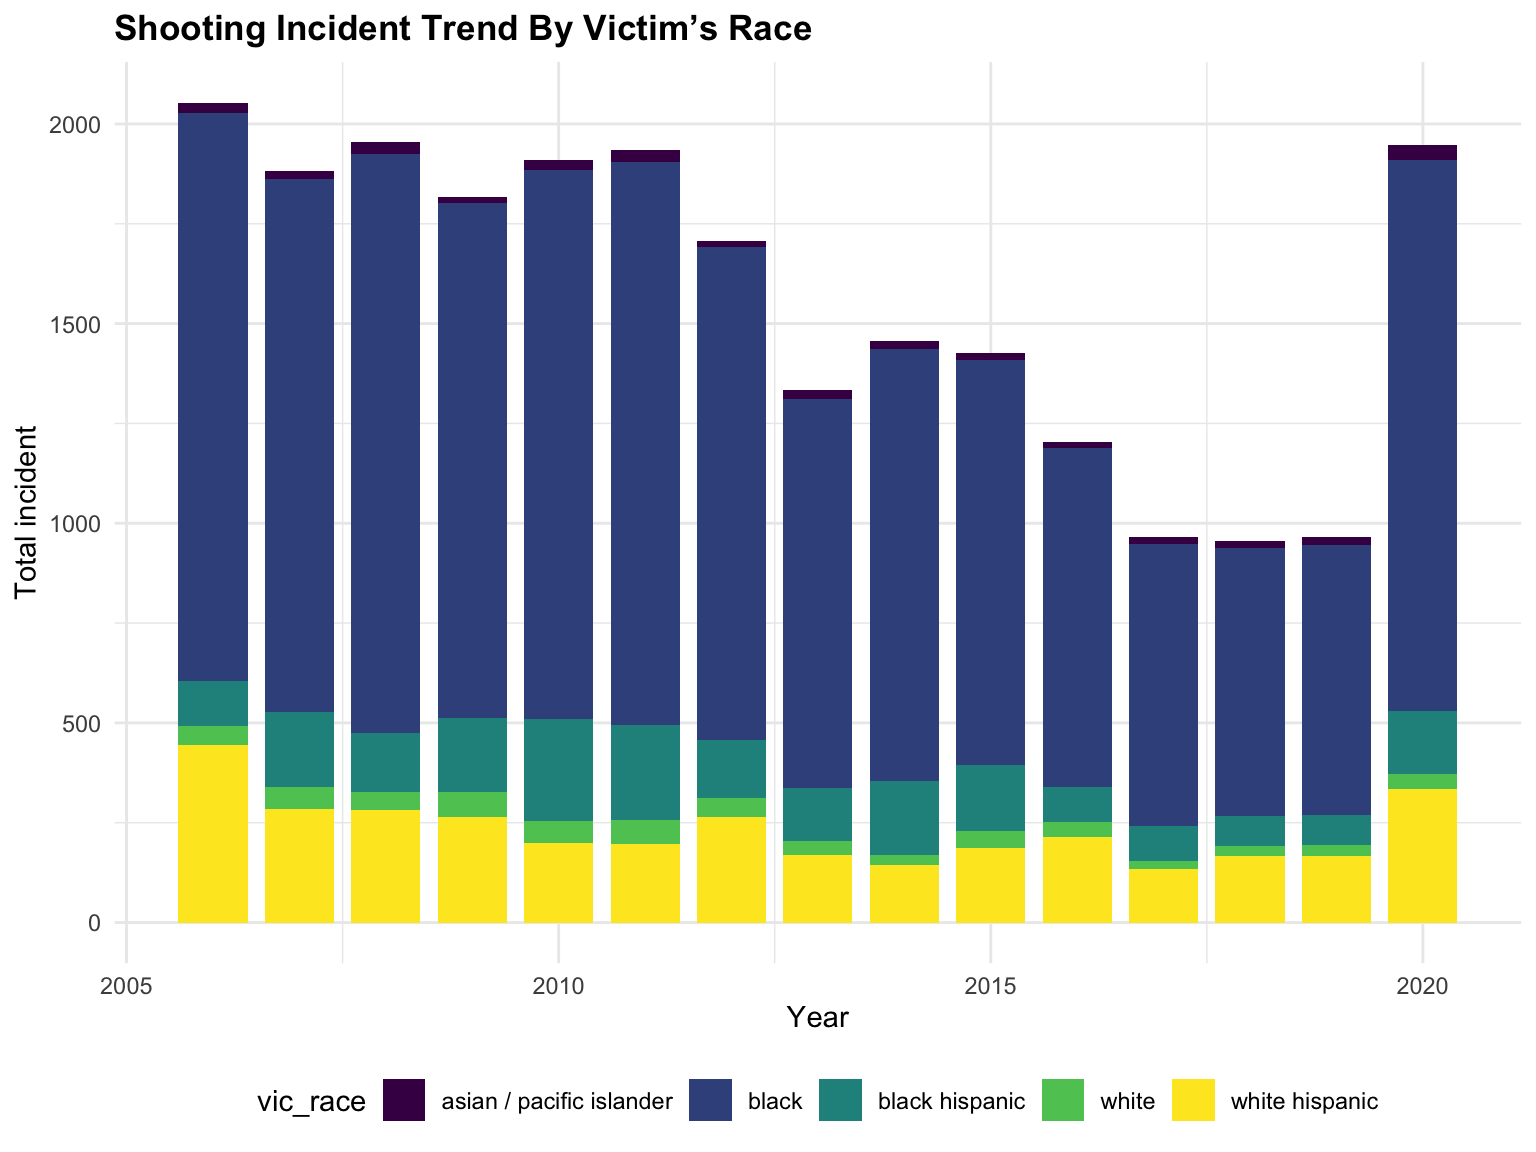
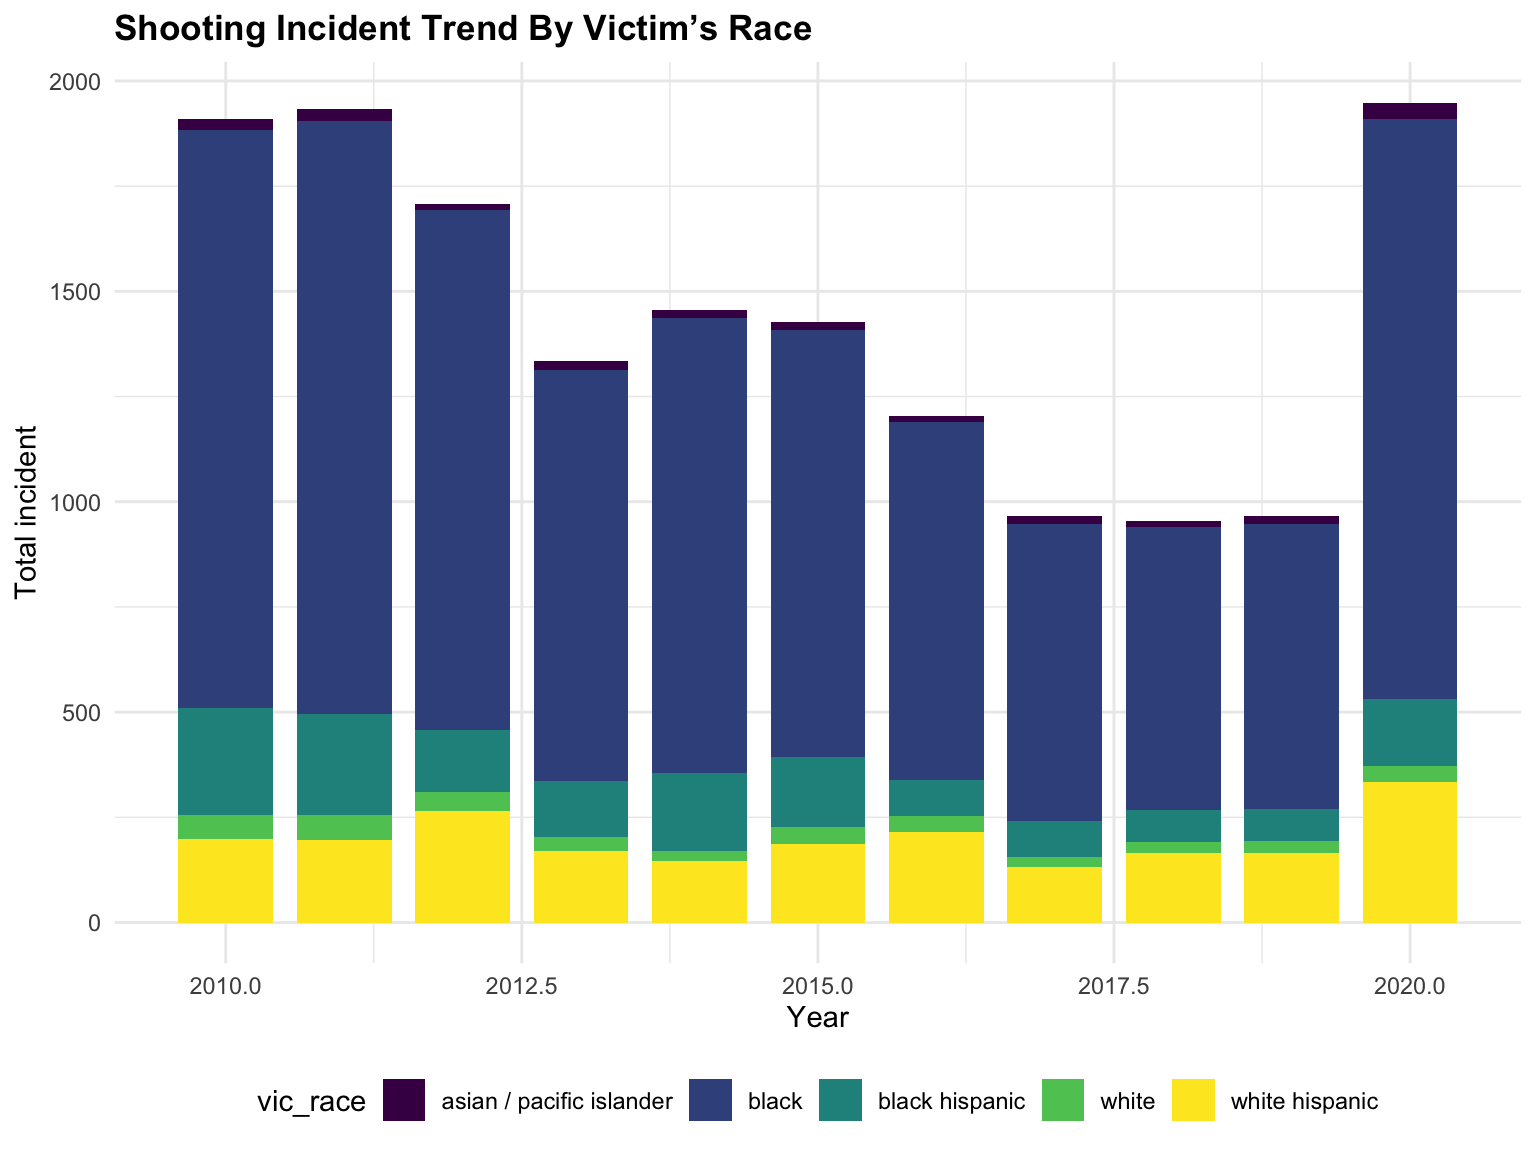
2010-2020

diff --git a/analysis.html b/analysis.html
@@ -368,8 +368,9 @@ div.tocify {
 
 <div id="overall-glance" class="section level1">
 <h1>Overall glance</h1>
-<p>At the very beginning, let’s have a overall glance at the shooting incidence and focusing on the most serious issue, which is the amount of death on shooting incident from <strong>2006 to 2020</strong> in New York City. ## Total shooting incident trends by murdered or survived <img src="analysis_files/figure-html/unnamed-chunk-4-1.png" width="90%" /></p>
-<p>Murdered shooting incidence is much less than survived shooting incidence. From 2006 to 2011, the survived shooting incidence was steadily fluctuate around 1500 and murdered shooting incidence was steadily fluctuate around 400. Both types of the shooting incidence were decreasing gradually from 2011 to 2019. However, there is a huge dramatically increase in 2020 for both types of the shooting incidence.</p>
+<p>At the very beginning, let’s have a overall glance at the shooting incidence and focusing on the most serious issue, which is the amount of death on shooting incident from <strong>2010 to 2020</strong> in New York City.</p>
+<p><img src="analysis_files/figure-html/unnamed-chunk-4-1.png" width="90%" /></p>
+<p>Murdered shooting incidence is much less than survived shooting incidence.Both types of the shooting incidence were decreasing gradually from 2010 to 2019. However, there is a huge dramatically increase in 2020. We suspect it may be due to the outbreak of COVID-19 which led to a raise in unemployment and panic.</p>
 <p>Now, let’s take a closer look on more details about the victims.</p>
 </div>
 <div id="victim" class="section level1">
@@ -382,24 +383,45 @@ div.tocify {
 <div id="sex" class="section level2">
 <h2>Sex</h2>
 <p><img src="analysis_files/figure-html/unnamed-chunk-6-1.png" width="90%" /></p>
-<p>Male victims are the majority and female victims have a very small proportion among the total victims in nyc across 2006 to 2020.</p>
+<p><strong>Male</strong> victims are the majority and female victims have a very small proportion among the total victims in nyc across 2010 to 2020.</p>
 </div>
 <div id="age" class="section level2">
 <h2>Age</h2>
 <p><img src="analysis_files/figure-html/unnamed-chunk-7-1.png" width="90%" /></p>
-<p>The proportion of age group under 18 and 45-64 have been keeping consistently low across 2006 to 2020, and there are nearly zero incidence for age group over 65. From 2006-2014, age group 18-24 and age group 25-44 have the highest proportion among the shooting incident. But since 2015, the amount of group 18-24 victims have been decreasing rapidly and become the second highest group among the total shooting incident. 18-24 usually is the age to graduate from high school and enter to college, this decrease may referring to some educational policy from 2015.</p>
+<p>The proportion of age group under 18 and 45-64 have been keeping consistently low across 2010 to 2020, and there are nearly zero incidence for age group over 65. From 2010-2014, age group 18-24 and age group 25-44 have the highest proportion among the shooting incident. But since 2015, the amount of group 18-24 victims have been decreasing rapidly and become the second highest group among the total shooting incident. 18-24 usually is the age to graduate from high school and enter to college, this decrease may referring to some educational policy from 2015.</p>
 </div>
 <div id="place" class="section level2">
 <h2>Place</h2>
 <p><img src="analysis_files/figure-html/unnamed-chunk-8-1.png" width="90%" /></p>
-<p>Most of the shooting incidences happened in the patrol, some of the shooting incidences in housing and only few cases were on transit.</p>
+<p>Most of the shooting incidences happened in the <strong>patrol</strong>, some of the shooting incidences in housing and only few cases were on transit.</p>
 </div>
 <div id="hour-in-a-day" class="section level2">
 <h2>Hour in a day</h2>
 <p><img src="analysis_files/figure-html/unnamed-chunk-9-1.png" width="90%" /></p>
-<p>Brooklyn has most shooting incident, then is bronx. Staten island has least shooting incident since it does not have much population. Most of the shooting incidence happened at night and very early in the morning. For Bronx and Brooklyn, the shooting incidence are gradually increasing after 12pm and reach to peaks around 10pm to 11pm. The shooting incidences in the morning are not as high as the shooting incidences at night. For queens and manhanttan, the shooting incidences in the morning reach to the highest peak and have a noteworthy amount until 5 am. We will provide more statistical analysis about which borought is the most dangerous in next section.</p>
+<p><strong>Brooklyn</strong> has most shooting incident, then is bronx. Staten island has least shooting incident since it does not have much population. Most of the shooting incidence happened at night and very early in the morning. For Bronx and Brooklyn, the shooting incidence are gradually increasing after 12pm and reach to peaks around 10pm to 11pm. The shooting incidences in the morning are not as high as the shooting incidences at night. For queens and manhanttan, the shooting incidences in the morning reach to the highest peak and have a noteworthy amount until 5 am. We will provide more statistical analysis about which borought is the most dangerous in next section.</p>
+</div>
+</div>
+<div id="education" class="section level1">
+<h1>Education</h1>
 <p><img src="analysis_files/figure-html/unnamed-chunk-10-1.png" width="90%" /> overall, all borough show increase. in 2015, brooklyn that has most shooting incident boro has a notability increase slope.</p>
 </div>
+<div id="unemployment" class="section level1">
+<h1>Unemployment</h1>
+<pre class="r"><code>unemployment</code></pre>
+<pre><code>## # A tibble: 300 × 8
+##     ...1 boro   year month labor_force employed unemployed unemployment_rate
+##    &lt;dbl&gt; &lt;chr&gt; &lt;dbl&gt; &lt;chr&gt;       &lt;dbl&gt;    &lt;dbl&gt;      &lt;dbl&gt;             &lt;dbl&gt;
+##  1     1 bronx  2020 jan        598600   566900      31700             0.053
+##  2     2 bronx  2020 feb        602800   571900      30900             0.051
+##  3     3 bronx  2020 mar        597300   563100      34200             0.057
+##  4     4 bronx  2020 apr        550500   448600     101900             0.185
+##  5     5 bronx  2020 may        555100   418600     136500             0.246
+##  6     6 bronx  2020 jun        590700   454300     136500             0.231
+##  7     7 bronx  2020 jul        599500   456700     142800             0.238
+##  8     8 bronx  2020 aug        609100   489600     119500             0.196
+##  9     9 bronx  2020 sep        609200   488400     120800             0.198
+## 10    10 bronx  2020 oct        585300   492700      92600             0.158
+## # … with 290 more rows</code></pre>
 </div>
 
 
